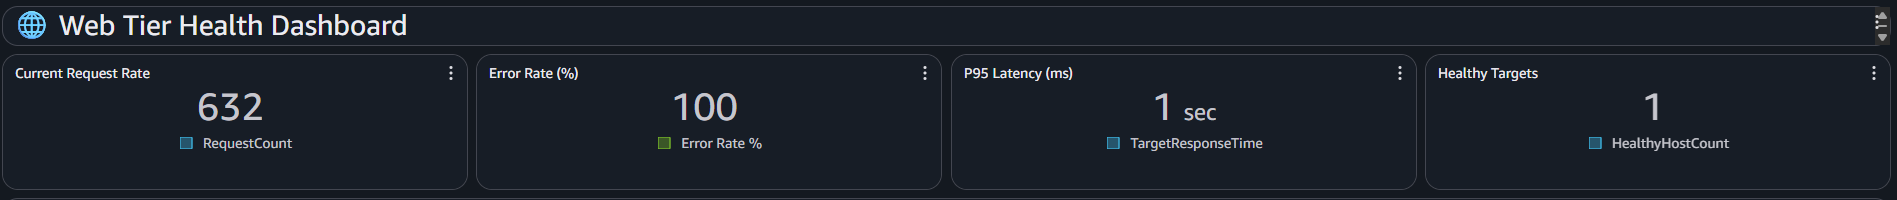
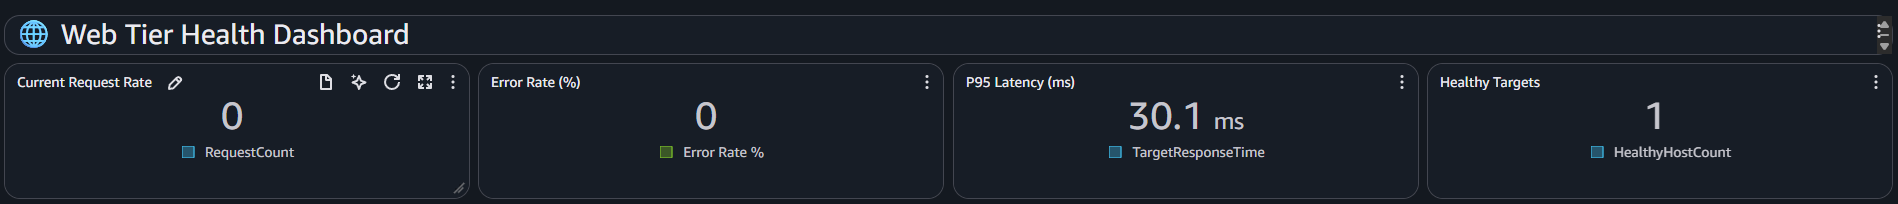
Update incident and alerting documentation, add evidence screenshots

diff --git a/INCIDENTS.md b/INCIDENTS.md
@@ -1,7 +1,112 @@
 # Incidents
 
-All incident summaries
-Investigation process
-Root causes identified
-Fixes applied
-Lessons learned
+## Incident summary
+
+**Incident:** API latency increased from 300ms (P95) to 5,000ms (P95)  
+**Impact:** 5,000 users experienced slow page loads, 5% error rate  
+**Duration:** 60 minutes (14:00-15:00 UTC, Jan 20, 2024)  
+**Root Cause:** Database connection pool exhaustion  
+**Status:** Resolved
+
+## Timeline
+ 
+| Time (UTC) | Event |
+|------------|-------|
+| 14:00 | CloudWatch alarm triggered: High latency detected |
+| 14:05 | On-call engineer paged |
+| 14:10 | Investigation started using RED method |
+| 14:15 | Confirmed elevated error rate and latency |
+| 14:20 | USE method applied to resources |
+| 14:25 | Identified DB connection pool at 100% utilization |
+| 14:30 | ROOT CAUSE: Connection pool exhausted (max 20) |
+| 14:35 | Immediate fix: Increased pool size to 50 |
+| 14:40 | Service began recovering |
+| 14:50 | Latency returned to normal |
+| 15:00 | Incident closed |
+
+
+## RED Method Analysis
+
+### Rate (Traffic)
+
+- Normal: 500 req/min
+- Incident: 1,500 req/min
+- **Finding: 3x traffic increase**
+ 
+### Errors
+
+- Normal: 0.1%
+- Incident: 5.0%
+- **Finding: 50x error increase**
+ 
+### Duration (Latency)
+
+- Normal P95: 300ms
+- Incident P95: 5,000ms
+- **Finding: 16x latency increase**
+ 
+### Conclusion
+
+All three RED signals elevated. Significant performance degradation.
+Primary symptom: High latency (16x increase)
+
+## USE Method Summary
+ 
+### CPU
+- ✅ Utilization: 45% (normal)
+- ✅ Saturation: Normal
+- ✅ Errors: None
+ 
+### Memory
+- ✅ Utilization: 70% (normal)
+- ✅ Saturation: No swapping
+- ✅ Errors: None
+ 
+### Database Connection Pool
+- 🔴 Utilization: 100% (maxed out!)
+- 🔴 Saturation: Requests queuing
+- 🔴 Errors: Timeout errors
+ 
+## Conclusion
+**ROOT CAUSE IDENTIFIED: Database connection pool exhaustion**
+
+
+## Root causes identified
+
+- **Problem:** Database connection pool exhausted
+- 
+-
+
+
+## Fixes applied
+
+### Immediate (Week 1)
+- [x] Increase connection pool to 50 (DONE)
+- [ ] Add CloudWatch alarm for connection pool > 80% (Owner: Sarah, Due: Jan 25)
+- [ ] Document connection pool sizing (Owner: Mike, Due: Jan 22)
+ 
+### Short-term (Month 1)
+- [ ] Implement auto-scaling for connection pool (Owner: Mike, Due: Feb 5)
+- [ ] Load test with 5x normal traffic (Owner: Team, Due: Feb 10)
+- [ ] Create runbook for connection pool issues (Owner: Alex, Due: Jan 30)
+ 
+### Long-term (Quarter 1)
+- [ ] Establish engineering review process for marketing campaigns (Owner: Manager, Due: Feb 15)
+- [ ] Implement capacity planning framework (Owner: Team, Due: Mar 1)
+- [ ] Add auto-scaling dashboard widget (Owner: Sarah, Due: Feb 5)
+
+## Lessons learned
+
+### What Went Well ✅
+- Alerts triggered immediately (within 1 minute)
+- On-call engineer responded quickly (5 minutes)
+- Systematic RED/USE methodology led to root cause
+- Clear monitoring data available
+- Mitigation applied quickly (10 minutes to identify, 5 to fix)
+ 
+### What Went Wrong ❌
+- No capacity planning for marketing campaigns
+- Connection pool not monitored (no alerts)
+- No auto-scaling configured
+- Lack of communication between marketing and engineering
+- No load testing performed

diff --git a/ALERTING.md b/ALERTING.md
@@ -231,6 +231,10 @@ Additionally, the alarms sends an SNS notification, every time an alarm has been
 
 ![SNS Notification](evidence/alert-screenshots/02-sns-notification.png)
 
+When an alert reaches the threshold, the state of the alarm changes to _In alarm_, as shown in the following picture: 
+
+![In Alarm State](evidence/alert-screenshots/03-alerts-in-alarm-state.png)
+
 For each alarm, these are possible responses: 
 
 1. **CPU Warning / CPU Critical**

diff --git a/docs/runbook.md b/docs/runbook.md
@@ -110,10 +110,10 @@ Refer to *app/simulation/saturation_sim.py*
 sudo dnf install -y stress-ng
 
 # Trigger the 70% warning alarm, but stay below 90%
-stress-ng --cpu 1 --cpu-load 75 --timeout 5m
+stress-ng --cpu 4 --cpu-load 75 --timeout 5m
 
 # Push CPU above 90%
-stress-ng --cpu 1 --cpu-load 95 --timeout 5m
+stress-ng --cpu 4 --cpu-load 95 --timeout 5m
 ```
 
 

diff --git a/docs/deployment.md b/docs/deployment.md
@@ -7,7 +7,7 @@
 Launch an EC2 Instance where the application will reside. Access to the EC2 Instance via SSH to install the application. 
 
 ```bash
-ssh -i ~/bootcamp-week2-key.pem  ec2-user@44.195.85.240
+ssh -i ~/bootcamp-week2-key.pem  ec2-user@3.231.57.212
 ```
 
 Create the app folder in the instance where the application will be. 
